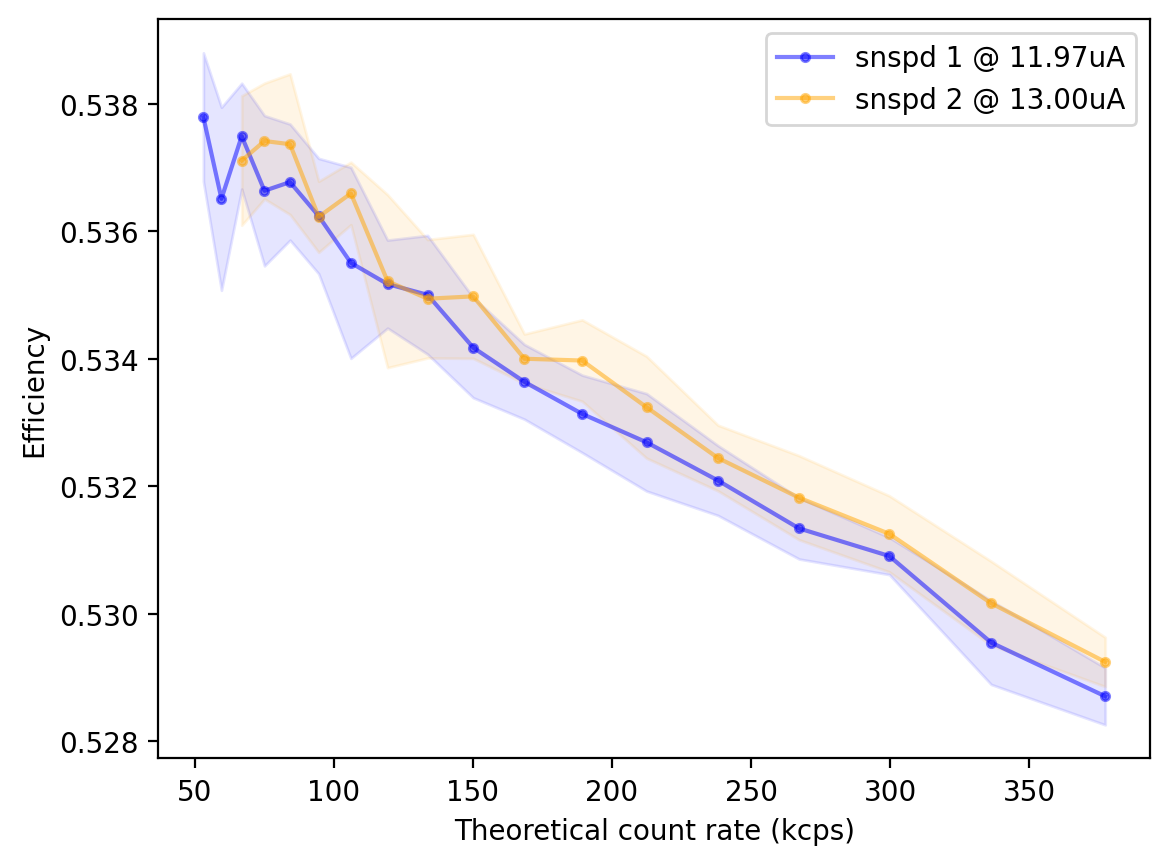
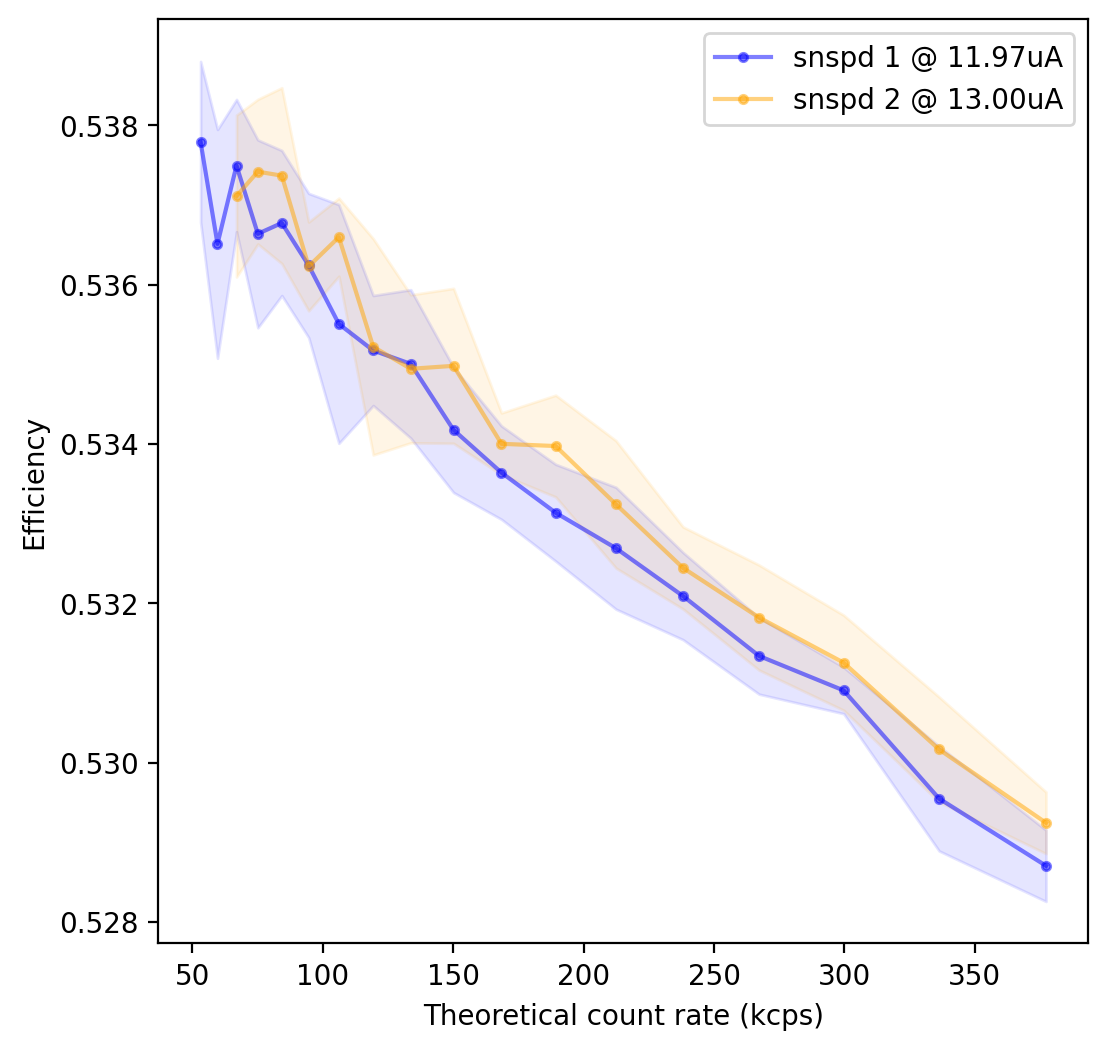
update

Changed region(s): [[0.0, 0.0, 1.0, 0.9988]]

diff --git a/230823_lumapi_try/24d0/24d0_compare_transmission.py b/230823_lumapi_try/24d0/24d0_compare_transmission.py
@@ -1,0 +1,34 @@
+import matplotlib.pyplot as plt
+import numpy as np
+import os
+import sys
+
+sys.path.append("../..")
+sys.path.append("..")
+from json_uuid import uuid_to_wd, getdataName
+from lib.gaussian.gaussian_fit_1d import arb_fit_1d
+
+if __name__ == "__main__":
+    uuid = "24d0"
+    dataName = getdataName(uuid)
+    fig, ax = plt.subplots(figsize=(10, 6))
+    # >>> 2D <<< #
+    fileName = "{:s}_transmission.txt".format(dataName)
+    data = np.loadtxt(fileName)
+    arb_fit_1d(ax, data[:, 0] * 1e3, data[:, 1], "2D")
+    # >>> 3D <<< #
+    tether_typ_list = [
+        "empty",
+    ]
+    for tether_typ in tether_typ_list:
+        fileName = "{:s}_{:s}_3D_simulated_transmission.txt".format(
+            dataName, tether_typ
+        )
+        data = np.loadtxt(fileName)
+        arb_fit_1d(ax, data[:, 0] * 1e3, data[:, 1], "3D_{:s}".format(tether_typ))
+
+    plt.legend()
+    plt.savefig(
+        "{:s}_compare_transmission.png".format(uuid), dpi=200, bbox_inches="tight"
+    )
+    plt.show()

diff --git a/230905_snspd_cal/count_sweep_power.py b/230905_snspd_cal/count_sweep_power.py
@@ -34,7 +34,7 @@ theo_cnt_2l = (power2l * 1e-6) * (10 ** (-95.64 / 10)) / (h * c / 1326e-9)
 efficiency_2l = C2l / theo_cnt_2l
 std_efficiency_2l = stdC2l / theo_cnt_2l
 #
-
+plt.figure(figsize=(6, 6))
 
 plt.plot(
     theo_cnt_1l / 1e3,
